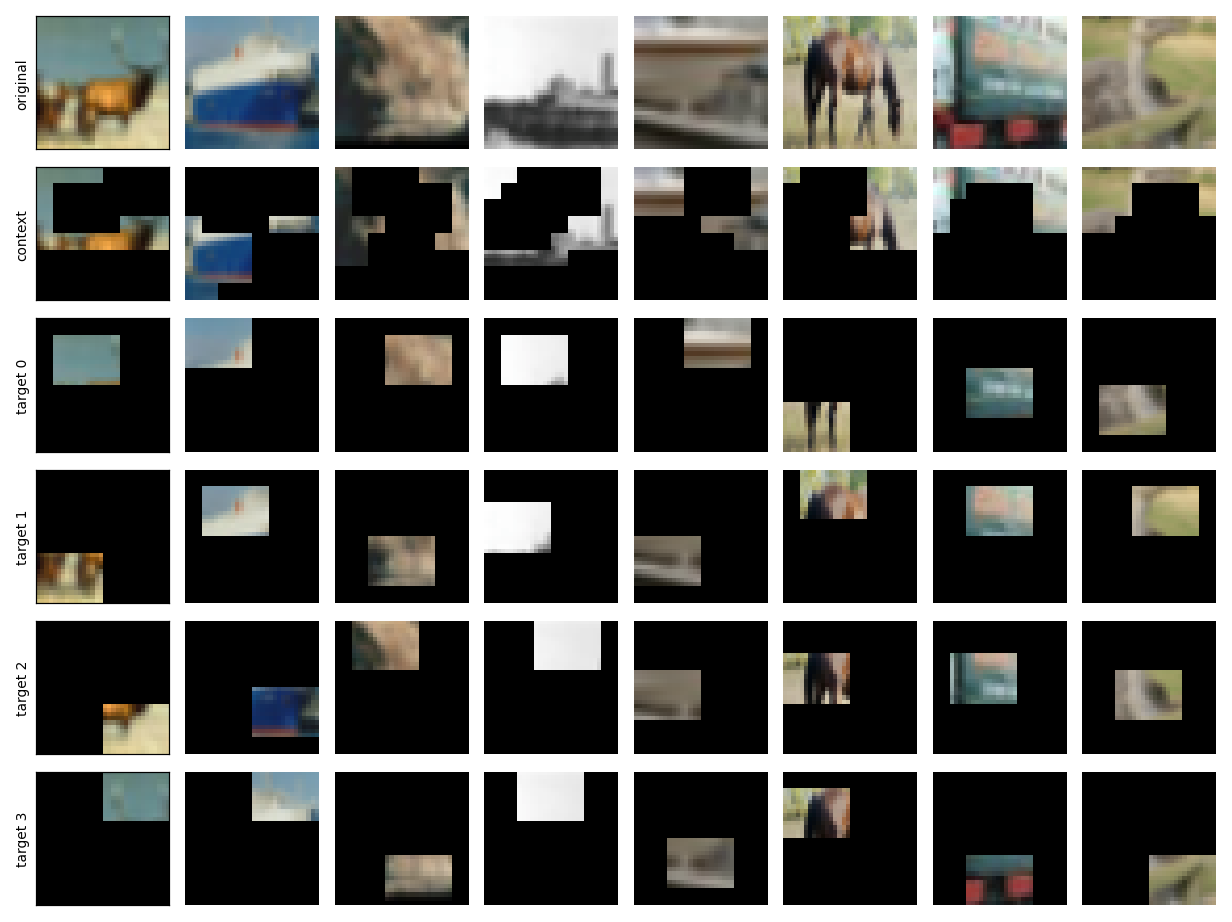
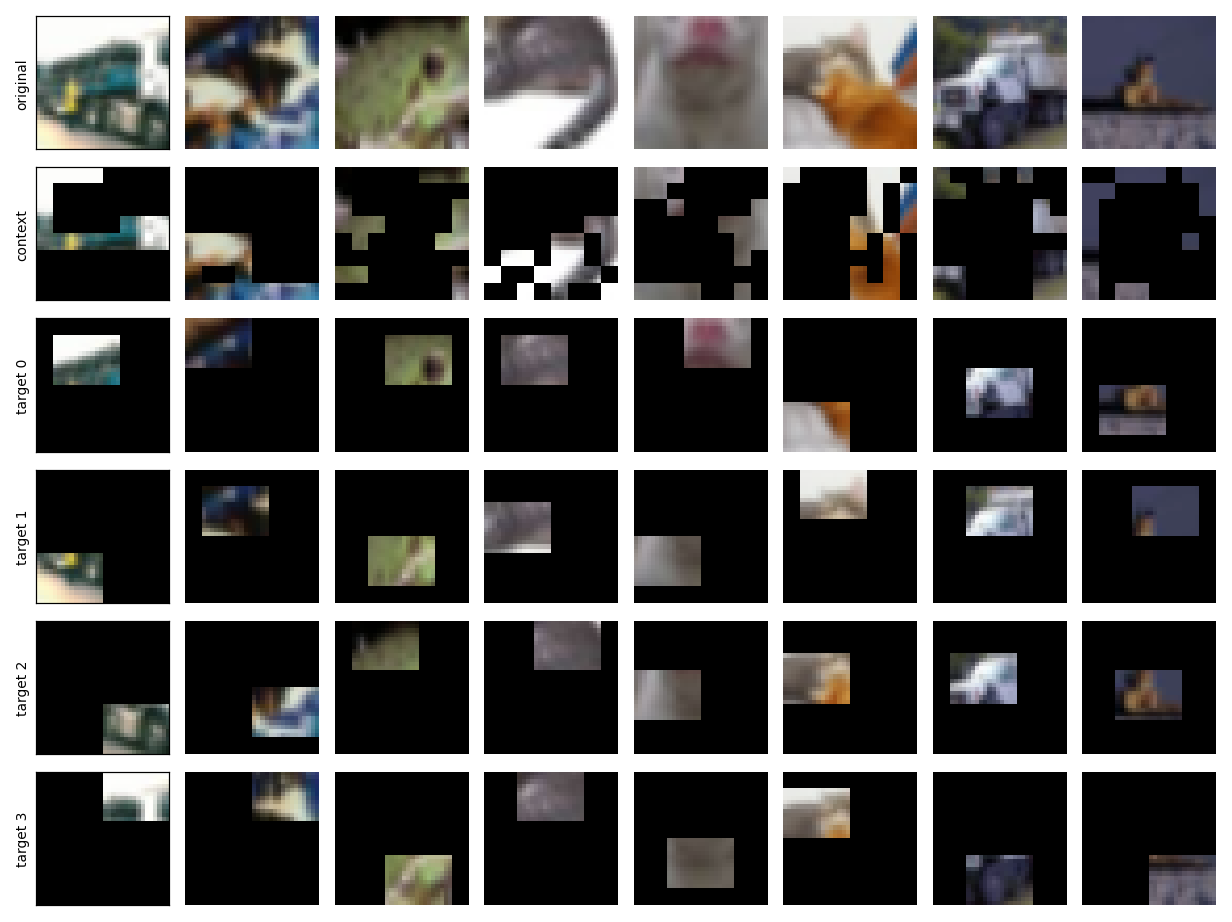
Tutorial: embed loss/mask/t-SNE figures; add 100-epoch run
ijepa.py: train() now accepts on_epoch_end callback; also fires at epoch=-1
so callers see the random-init baseline.

ijepa_extras.py: per-epoch feature snapshots (subsampled to ~10 panels when
epochs is large), LDA and t-SNE projection grids in addition to PCA.

ijepa_tutorial.md: embed the mask grid, loss curve, and t-SNE evolution
images. Update results section with 100-epoch numbers (52.7% linear probe).

samples/: 100-epoch artifacts (mask grid, loss curve, per-epoch PCA panels,
PCA/LDA/t-SNE evolution grids).

diff --git a/ijepa_extras.py b/ijepa_extras.py
@@ -118,28 +118,116 @@ def linear_probe(encoder, test_loader, device, epochs=3, batch_size=512):
     return acc
 
 
+def save_pca_grid(snapshots, path):
+    """snapshots: list of (epoch, feats, labels). Renders one PCA panel per epoch."""
+    n = len(snapshots)
+    cols = min(4, n); rows = (n + cols - 1) // cols
+    fig, axes = plt.subplots(rows, cols, figsize=(cols * 3.4, rows * 3.4), squeeze=False)
+    for i, (ep, feats, labels) in enumerate(snapshots):
+        x = feats - feats.mean(0, keepdim=True)
+        _, _, v = torch.linalg.svd(x, full_matrices=False)
+        proj = x @ v[:2].T
+        ax = axes[i // cols][i % cols]
+        ax.scatter(proj[:, 0].numpy(), proj[:, 1].numpy(), c=labels.numpy(),
+                   cmap="tab10", s=4, alpha=0.7)
+        ax.set_title("init (random)" if ep < 0 else f"after epoch {ep}", fontsize=10)
+        ax.set_xticks([]); ax.set_yticks([])
+    for j in range(n, rows * cols):
+        axes[j // cols][j % cols].axis("off")
+    fig.suptitle("I-JEPA target-encoder features (PCA) across epochs", fontsize=12)
+    plt.tight_layout(); plt.savefig(path, dpi=110); plt.close()
+
+
+def lda_2d(feats, labels, n_classes=10, reg=1e-3):
+    """Project features onto the 2 LDA directions (max between/within-class variance)."""
+    mu = feats.mean(0)
+    D = feats.size(1)
+    Sw = torch.zeros(D, D); Sb = torch.zeros(D, D)
+    for k in range(n_classes):
+        mask = labels == k
+        nk = mask.sum().item()
+        if nk == 0: continue
+        fk = feats[mask]; mu_k = fk.mean(0)
+        diff = fk - mu_k; Sw += diff.T @ diff
+        d = (mu_k - mu).unsqueeze(1); Sb += nk * (d @ d.T)
+    Sw = Sw + reg * torch.eye(D)
+    eigvals, eigvecs = torch.linalg.eig(torch.linalg.solve(Sw, Sb))
+    order = torch.argsort(eigvals.real, descending=True)
+    return (feats - mu) @ eigvecs.real[:, order[:2]]
+
+
+def save_tsne_grid(snapshots, path, perplexity=30, max_iter=500):
+    """Nonlinear projection. Slower than PCA/LDA -- ~10-30s per snapshot."""
+    from sklearn.manifold import TSNE
+    n = len(snapshots)
+    cols = min(4, n); rows = (n + cols - 1) // cols
+    fig, axes = plt.subplots(rows, cols, figsize=(cols * 3.4, rows * 3.4), squeeze=False)
+    for i, (ep, feats, labels) in enumerate(snapshots):
+        proj = TSNE(n_components=2, perplexity=perplexity, max_iter=max_iter,
+                    init="pca", random_state=0).fit_transform(feats.float().numpy())
+        ax = axes[i // cols][i % cols]
+        ax.scatter(proj[:, 0], proj[:, 1], c=labels.numpy(), cmap="tab10", s=4, alpha=0.7)
+        ax.set_title("init (random)" if ep < 0 else f"after epoch {ep}", fontsize=10)
+        ax.set_xticks([]); ax.set_yticks([])
+    for j in range(n, rows * cols):
+        axes[j // cols][j % cols].axis("off")
+    fig.suptitle("I-JEPA target-encoder features (t-SNE) across epochs", fontsize=12)
+    plt.tight_layout(); plt.savefig(path, dpi=110); plt.close()
+
+
+def save_lda_grid(snapshots, path):
+    """snapshots: list of (epoch, feats, labels). Renders one LDA panel per epoch."""
+    n = len(snapshots)
+    cols = min(4, n); rows = (n + cols - 1) // cols
+    fig, axes = plt.subplots(rows, cols, figsize=(cols * 3.4, rows * 3.4), squeeze=False)
+    for i, (ep, feats, labels) in enumerate(snapshots):
+        proj = lda_2d(feats.float(), labels)
+        ax = axes[i // cols][i % cols]
+        ax.scatter(proj[:, 0].numpy(), proj[:, 1].numpy(), c=labels.numpy(),
+                   cmap="tab10", s=4, alpha=0.7)
+        ax.set_title("init (random)" if ep < 0 else f"after epoch {ep}", fontsize=10)
+        ax.set_xticks([]); ax.set_yticks([])
+    for j in range(n, rows * cols):
+        axes[j // cols][j % cols].axis("off")
+    fig.suptitle("I-JEPA target-encoder features (LDA) across epochs", fontsize=12)
+    plt.tight_layout(); plt.savefig(path, dpi=110); plt.close()
+
+
 # ---------- driver ----------
 
 def main(epochs=8):
     os.makedirs(SAMPLES_DIR, exist_ok=True)
-    out = _train(epochs=epochs)
-
-    # mask snapshot from a fresh batch (using the same RNG seed for repeatability)
-    imgs, _ = next(iter(out["loader"]))
-    ctx_list, tgt_lists = sample_ijepa_masks(imgs.size(0), out["ctx_enc"].grid,
-                                              rng=random.Random(42))
-    save_mask_grid(imgs, ctx_list, tgt_lists,
-                   out["ctx_enc"].grid, out["ctx_enc"].patch_size,
-                   f"{SAMPLES_DIR}/ijepa_masks.png")
-
-    save_loss_curve(out["losses"], f"{SAMPLES_DIR}/ijepa_loss.png")
 
     tfm = transforms.Compose([transforms.ToTensor(), transforms.Normalize(MEAN, STD)])
     test_ds = datasets.CIFAR10("./data", train=False, download=True, transform=tfm)
     test_loader = DataLoader(test_ds, batch_size=256, num_workers=2)
 
-    feats, labels = compute_test_features(out["tgt_enc"], test_loader, out["device"])
-    save_pca(feats, labels, f"{SAMPLES_DIR}/ijepa_pca.png", "PCA after training")
+    snapshots = []
+    # subsample so the per-epoch grids stay readable across long training
+    every = max(1, epochs // 10)
+
+    def on_epoch_end(state):
+        ep = state["epoch"]
+        if ep != -1 and ep != epochs - 1 and (ep + 1) % every != 0:
+            return
+        feats, labels = compute_test_features(state["tgt_enc"], test_loader, state["tgt_enc"].pos.device)
+        snapshots.append((ep, feats, labels))
+        save_pca(feats, labels, f"{SAMPLES_DIR}/ijepa_pca_ep{ep}.png",
+                 f"PCA after epoch {ep}" if ep >= 0 else "PCA at init")
+
+    out = _train(epochs=epochs, on_epoch_end=on_epoch_end)
+
+    # mask snapshot from a fresh batch
+    imgs, _ = next(iter(out["loader"]))
+    ctx_list, tgt_lists = sample_ijepa_masks(imgs.size(0), out["ctx_enc"].grid,
+                                              rng=random.Random(42))
+    save_mask_grid(imgs, ctx_list, tgt_lists, out["ctx_enc"].grid,
+                   out["ctx_enc"].patch_size, f"{SAMPLES_DIR}/ijepa_masks.png")
+
+    save_loss_curve(out["losses"], f"{SAMPLES_DIR}/ijepa_loss.png")
+    save_pca_grid(snapshots, f"{SAMPLES_DIR}/ijepa_pca_evolution.png")
+    save_lda_grid(snapshots, f"{SAMPLES_DIR}/ijepa_lda_evolution.png")
+    save_tsne_grid(snapshots, f"{SAMPLES_DIR}/ijepa_tsne_evolution.png")
 
     linear_probe(out["tgt_enc"], test_loader, out["device"])
     print(f"artifacts in ./{SAMPLES_DIR}/")

diff --git a/ijepa.py b/ijepa.py
@@ -122,7 +122,8 @@ def sample_ijepa_masks(B, grid, n_targets=4, min_ctx=4, rng=None):
     return [sorted(rng.sample(c, L)) for c in ctx_list], tgt_lists
 
 
-def train(epochs=8, batch_size=256, lr=3e-4, wd=0.05, ema_start=0.996, ema_end=1.0, device=None):
+def train(epochs=8, batch_size=256, lr=3e-4, wd=0.05, ema_start=0.996, ema_end=1.0,
+          device=None, on_epoch_end=None):
     device = device or pick_device(); print(f"device: {device}")
     tfm = transforms.Compose([transforms.RandomResizedCrop(32, scale=(0.3, 1.0)),
                               transforms.ToTensor(), transforms.Normalize(MEAN, STD)])
@@ -134,6 +135,9 @@ def train(epochs=8, batch_size=256, lr=3e-4, wd=0.05, ema_start=0.996, ema_end=1
     opt = torch.optim.AdamW(param_groups([ctx_enc, pred], wd), lr=lr)
     total = epochs * len(loader); rng = random.Random(0); losses = []; step = 0
     D = ctx_enc.dim
+    if on_epoch_end is not None:
+        on_epoch_end({"epoch": -1, "ctx_enc": ctx_enc, "tgt_enc": tgt_enc,
+                      "predictor": pred, "step": 0})
     for epoch in range(epochs):
         for imgs, _ in loader:
             imgs = imgs.to(device)
@@ -153,6 +157,9 @@ def train(epochs=8, batch_size=256, lr=3e-4, wd=0.05, ema_start=0.996, ema_end=1
                 print(f"ep={epoch} step={step:5d} loss={loss.item():.4f} "
                       f"lr={opt.param_groups[0]['lr']:.2e} ema={m:.4f}")
             step += 1
+        if on_epoch_end is not None:
+            on_epoch_end({"epoch": epoch, "ctx_enc": ctx_enc, "tgt_enc": tgt_enc,
+                          "predictor": pred, "step": step})
     return {"ctx_enc": ctx_enc, "tgt_enc": tgt_enc, "predictor": pred,
             "losses": losses, "loader": loader, "device": device}
 

diff --git a/ijepa_tutorial.md b/ijepa_tutorial.md
@@ -50,6 +50,10 @@ Pixels are spatially correlated. If you mask a single 4×4 patch in the middle o
 
 A *block* of held-out patches breaks that shortcut. To predict a block that is, say, 12 patches wide, the model has to use information from farther away. Distant correlations are more semantic than local ones, so the model is pushed toward higher-level features.
 
+![Mask grid](./samples/ijepa_masks.png)
+
+Eight CIFAR images, each with its own context (row 2) and four target blocks (rows 3–6). Block **sizes** are shared across the batch; **locations** are sampled per image.
+
 ## Building blocks
 
 I-JEPA has four pieces. We will build each, then assemble them.
@@ -240,7 +244,7 @@ Train the algorithm only:
 python ijepa.py
 ```
 
-Train plus write the mask grid, loss curve, PCA scatter of features, and run a linear probe:
+Train plus write the mask grid, loss curve, PCA/LDA/t-SNE scatter of features, and run a linear probe:
 
 ```bash
 python ijepa_extras.py
@@ -248,13 +252,23 @@ python ijepa_extras.py
 
 The extras module imports `ijepa` and adds visualization — the algorithm file stays focused on the algorithm.
 
+The default is 8 epochs. The plots in this post come from `main(epochs=100)`, which takes ~1 hour on an M-series Mac.
+
 ## Results
 
-Training ran for 8 epochs on a single Apple M-series device. The loss dropped from about 0.55 to 0.10. The EMA momentum rose from 0.996 to 0.9999 over the same span.
+Training ran for 100 epochs on a single Apple M-series device. The loss dropped from about 0.55 to ~0.08 and stabilized.
+
+![Loss curve](./samples/ijepa_loss.png)
 
 The standard sanity check for a self-supervised method is a *linear probe*: freeze the encoder, train one linear layer on labeled data, see how well it classifies. If the features carry class information, even a linear layer can separate them.
 
-On CIFAR-10, a linear probe over the EMA target encoder reached **about 28% test accuracy** with 3 probe epochs. A supervised baseline with the same architecture and training budget reaches above 70%. The gap is expected — we trained for 8 epochs on a tiny ViT, and the reference numbers come from ViT-Huge trained for 300 epochs on ImageNet. The point of this implementation is the algorithm shape, not the leaderboard.
+On CIFAR-10, a linear probe over the EMA target encoder reached **52.7% test accuracy** with 3 probe epochs after 100 epochs of pretraining. (At 8 epochs the probe gives ~35%; the gap to 52% comes from more training time on the same tiny ViT.) A supervised baseline with the same architecture and training budget reaches above 70%. The full gap to the I-JEPA paper's numbers is expected — the paper trains ViT-Huge on ImageNet for 300 epochs. The point of this implementation is the algorithm shape, not the leaderboard.
+
+To see the learning visually, we snapshot test-set features after every 10th epoch and project them with t-SNE:
+
+![t-SNE evolution](./samples/ijepa_tsne_evolution.png)
+
+The init panel (random encoder) shows a featureless point cloud. By epoch 9 distinct local clusters are forming. By epoch 99 those clusters are partially class-coherent — regions where one color dominates — even though the encoder never saw a class label. That is what self-supervised learning looks like when it works.
 
 ## What's next
 